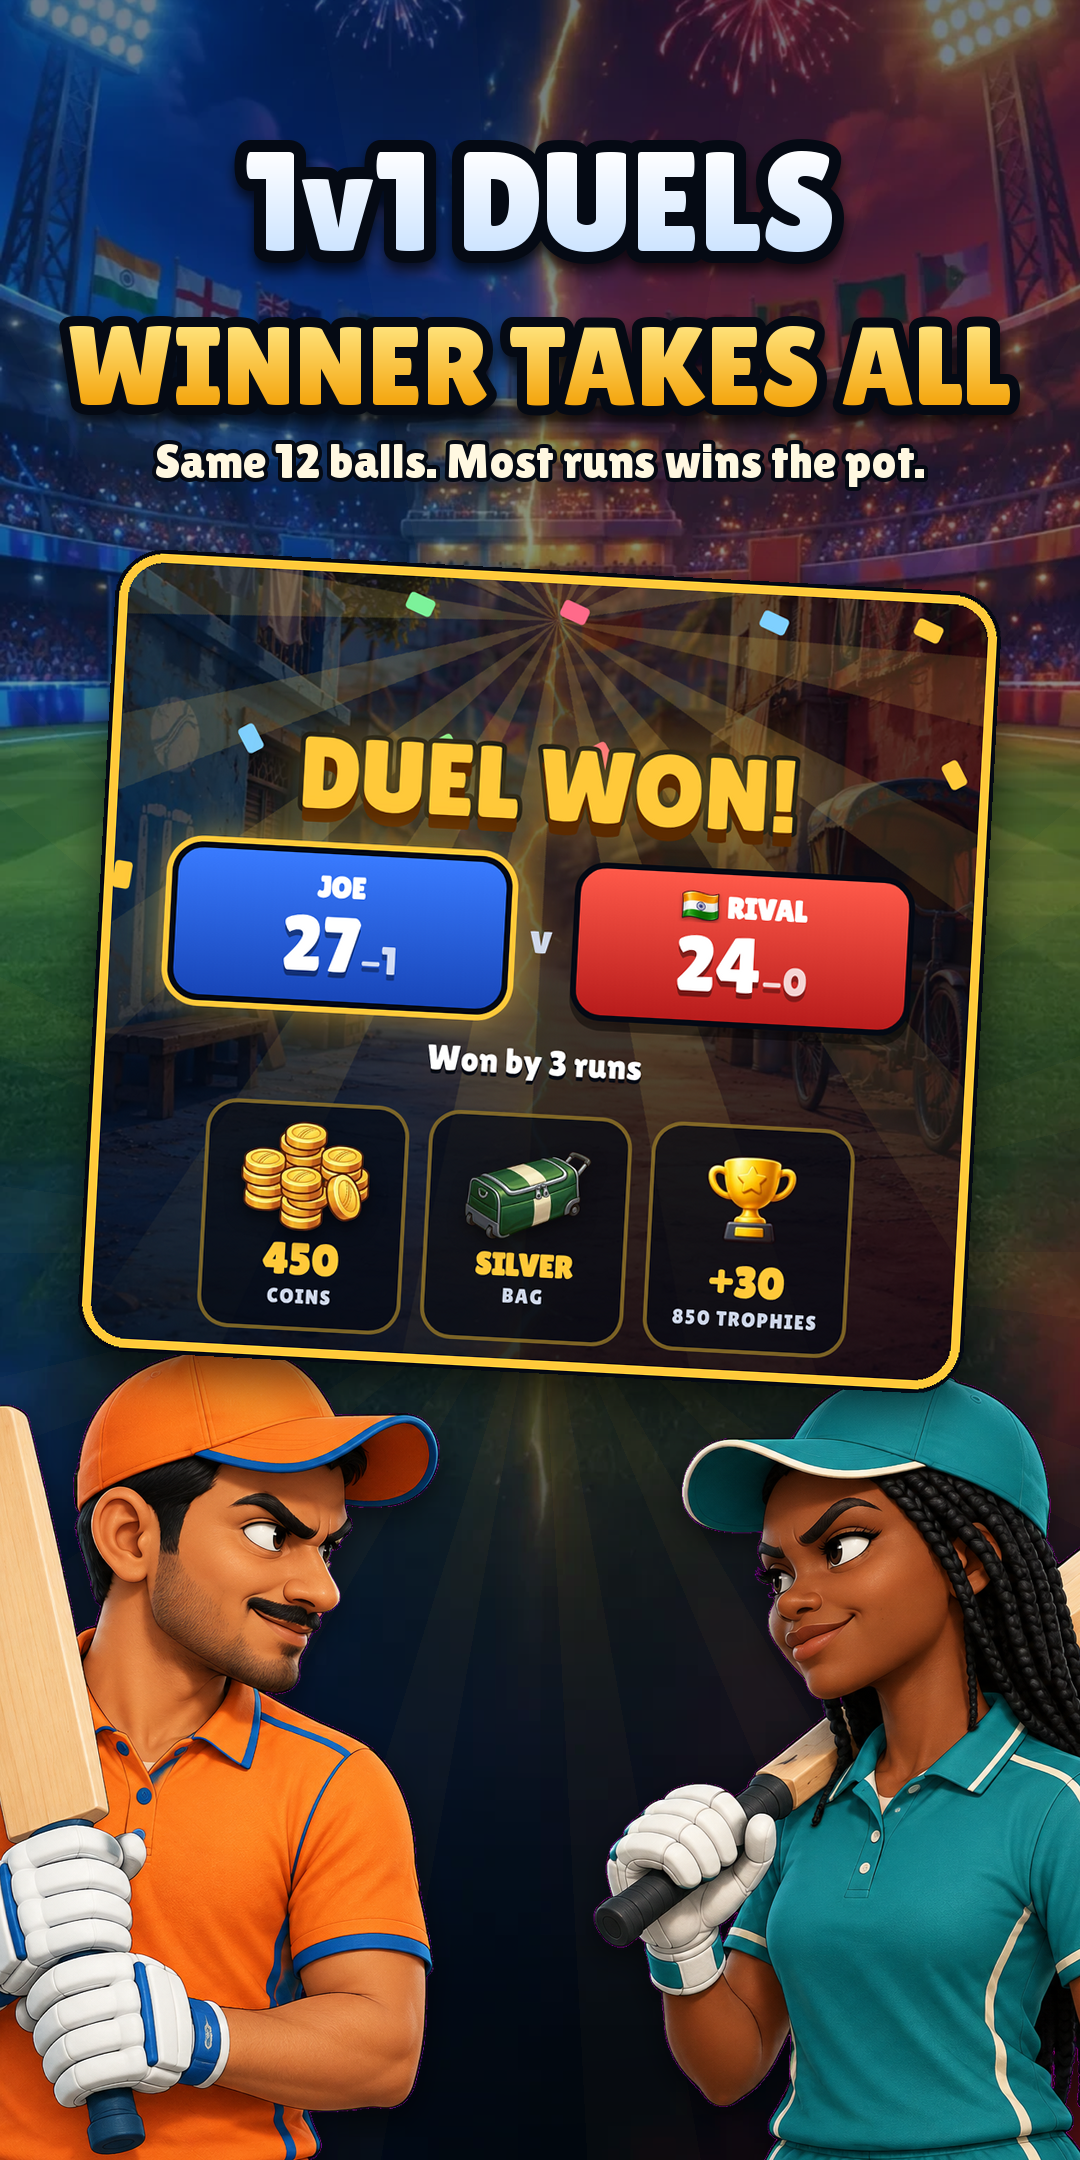
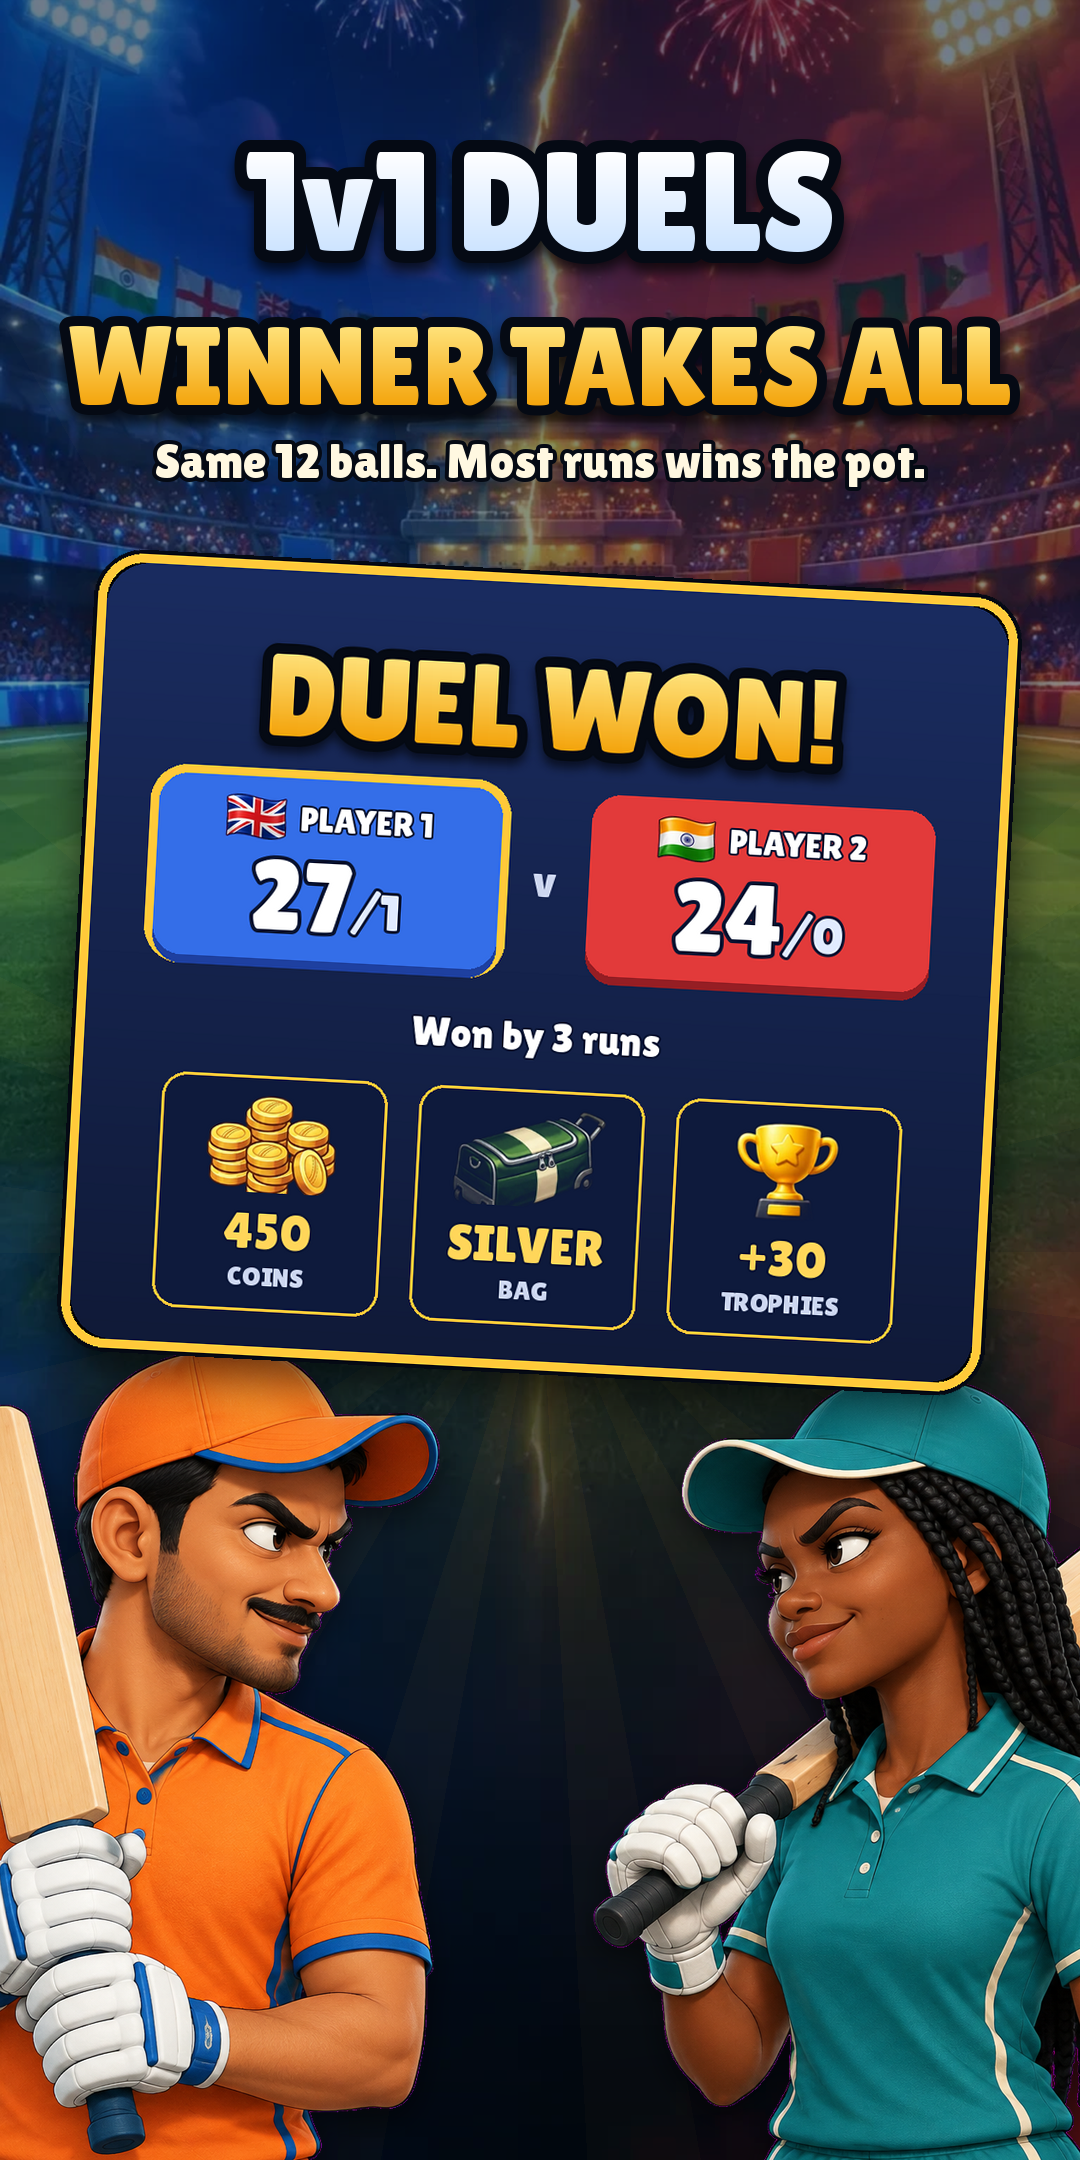
Store slide 2: solid Duel Won card, Player 1 v Player 2 with flags, 27/1 scores
Claude-Session: https://claude.ai/code/session_01EnXvJ6P6HcGRxjBSnYPdAU

Changed region(s): [[0.0306, 0.2481, 0.9472, 0.6514]]

diff --git a/art/store/duelcard.py b/art/store/duelcard.py
@@ -1,0 +1,44 @@
+import sys
+exec(open('blend3.py').read().split("A=(0,0,1,1)")[0])
+import numpy as np
+DW=Image.open('dw.png').convert('RGB'); dw,dh=DW.size
+def icon(x0,x1,y0,y1):
+    c=DW.crop((int(dw*x0),int(dh*y0),int(dw*x1),int(dh*y1))); a=np.asarray(c).astype(float)
+    lum=a.mean(2); sat=a.max(2)-a.min(2)
+    al=np.clip((np.maximum(lum-34,sat-22))*5,0,255)
+    m=Image.fromarray(al.astype('uint8')).filter(ImageFilter.GaussianBlur(1))
+    o=c.convert('RGBA'); o.putalpha(m); return o.crop(o.getbbox())
+ICONS=[icon(100/660,218/660,0.492,0.545),icon(272/660,390/660,0.498,0.545),icon(440/660,545/660,0.495,0.545)]
+def card(cw):
+    s=cw/1000; ch=int(860*s); C=Image.new('RGBA',(cw,ch),(0,0,0,0)); d=ImageDraw.Draw(C)
+    g=Image.new('RGBA',(cw,ch)); gd=ImageDraw.Draw(g)
+    for y in range(ch): t=y/ch; gd.line((0,y,cw,y),fill=(int(26-10*t),int(44-18*t),int(96-40*t),255))
+    m=Image.new('L',(cw,ch),0); ImageDraw.Draw(m).rounded_rectangle((0,0,cw-1,ch-1),int(48*s),fill=255); C.paste(g,(0,0),m)
+    T=word('DUEL WON!',cw*0.13,(255,226,122),(244,163,10),cw*0.8); drop(C,T,(cw-T.width)//2,int(40*s),blur=int(6*s),off=(0,int(8*s)),a=0.6)
+    def tile(x,col,dark,name,flag,runs,wk,win):
+        tw,th=int(380*s),int(200*s); y=int(230*s)
+        if win: d.rounded_rectangle((x-int(10*s),y-int(10*s),x+tw+int(10*s),y+th+int(10*s)),int(40*s),fill=(255,201,58))
+        d.rounded_rectangle((x,y,x+tw,y+th+int(10*s)),int(32*s),fill=dark); d.rounded_rectangle((x,y,x+tw,y+th),int(32*s),fill=col)
+        fh=int(50*s); bd=Image.open(f'kitart/{flag}.webp').convert('RGBA'); bd=bd.resize((int(bd.width*fh/bd.height),fh),Image.LANCZOS)
+        sh=Image.new('RGBA',bd.size,(0,0,0,0)); sh.putalpha(bd.split()[3].point(lambda v:int(v*0.45))); C.alpha_composite(sh,(0,0)) if False else None
+        f=F(38*s); nw=f.getlength(name); gap=int(14*s); tot=bd.width+gap+nw; x0=x+(tw-tot)/2
+        tb=f.getbbox(name); ty=y+int(46*s)-(tb[1]+tb[3])/2
+        C.alpha_composite(bd,(int(x0),int(y+int(46*s)-bd.height/2)))
+        d.text((x0+bd.width+gap,ty),name,font=f,fill=(255,255,255),stroke_width=int(3*s),stroke_fill=(10,20,50))
+        fr=F(110*s); rt=str(runs); wt='/'+str(wk); fw=F(56*s)
+        tot=fr.getlength(rt)+fw.getlength(wt); x1=x+(tw-tot)/2
+        d.text((x1,y+int(68*s)),rt,font=fr,fill=(255,255,255),stroke_width=int(5*s),stroke_fill=(10,20,50))
+        d.text((x1+fr.getlength(rt),y+int(112*s)),wt,font=fw,fill=(225,235,255),stroke_width=int(4*s),stroke_fill=(10,20,50))
+    tile(int(70*s),(52,110,232),(30,64,160),'PLAYER 1','gb',27,1,True)
+    tile(int(550*s),(226,58,58),(150,30,36),'PLAYER 2','in',24,0,False)
+    fv=F(50*s); d.text(((cw-fv.getlength('v'))/2,int(300*s)),'v',font=fv,fill=(205,215,240))
+    f=F(46*s); t='Won by 3 runs'; d.text(((cw-f.getlength(t))/2,int(475*s)),t,font=f,fill=(255,255,255),stroke_width=int(3*s),stroke_fill=(10,20,50))
+    for i,(ic,big,small) in enumerate(zip(ICONS,['450','SILVER','+30'],['COINS','BAG','TROPHIES'])):
+        x=int((90+i*285)*s); y=int(560*s); tw,th=int(250*s),int(260*s)
+        d.rounded_rectangle((x,y,x+tw,y+th),int(28*s),fill=(14,26,60),outline=(255,201,58),width=max(2,int(4*s)))
+        ih=int(110*s); ii=ic.resize((int(ic.width*ih/ic.height),ih),Image.LANCZOS)
+        if ii.width>tw*0.8: ii=ic.resize((int(tw*0.8),int(ic.height*tw*0.8/ic.width)),Image.LANCZOS)
+        C.alpha_composite(ii,(x+(tw-ii.width)//2,y+int(20*s)+(ih-ii.height)//2))
+        fb=F(56*s); d.text((x+(tw-fb.getlength(big))/2,y+int(140*s)),big,font=fb,fill=(255,214,90),stroke_width=int(3*s),stroke_fill=(10,20,50))
+        fs=F(30*s); d.text((x+(tw-fs.getlength(small))/2,y+int(206*s)),small,font=fs,fill=(205,215,240))
+    return C

diff --git a/art/store/s2.py b/art/store/s2.py
@@ -1,0 +1,13 @@
+import sys
+exec(open('duelcard.py').read())
+C=card(int(W*0.88)).convert('RGB'); C.save(f'{OUT}/_duelcard.png')
+im=scene('bg/b2.webp',True); y=int(H*0.045)
+for txt,cols in [('1v1 DUELS',((255,255,255),(205,228,255))),('WINNER TAKES ALL',((255,226,122),(244,163,10)))]:
+    L=word(txt,W*0.13,*cols,W*0.9); drop(im,L,(W-L.width)//2,y,blur=int(8*K),off=(0,int(12*K)),a=0.7); y+=int(L.height*0.78)
+d=ImageDraw.Draw(im); sub='Same 12 balls. Most runs wins the pot.'; fs=F(W*0.045); d.text(((W-fs.getlength(sub))/2,y+int(6*K)),sub,font=fs,fill=(255,248,225),stroke_width=int(6*K),stroke_fill=(5,10,20)); y+=int(W*0.07)
+top=y+int(H*0.02)
+M=Image.open('duel_pair.png').convert('RGBA'); mw=int(W*1.22); M=M.resize((mw,int(M.height*mw/M.width)),Image.LANCZOS)
+drop(im,M,int(W*0.5-mw/2),H-M.height+int(H*0.02),blur=int(16*K),off=(0,int(14*K)),a=0.5)
+P=floating(f'{OUT}/_duelcard.png',(0,0,1,1),0.86,-3,top,H*0.36)
+drop(im,P,int(W*0.5-P.width/2),top,blur=int(28*K),off=(0,int(24*K)),a=0.6)
+im.convert('RGB').save(f'{OUT}/02_new.png'); print('ok')
